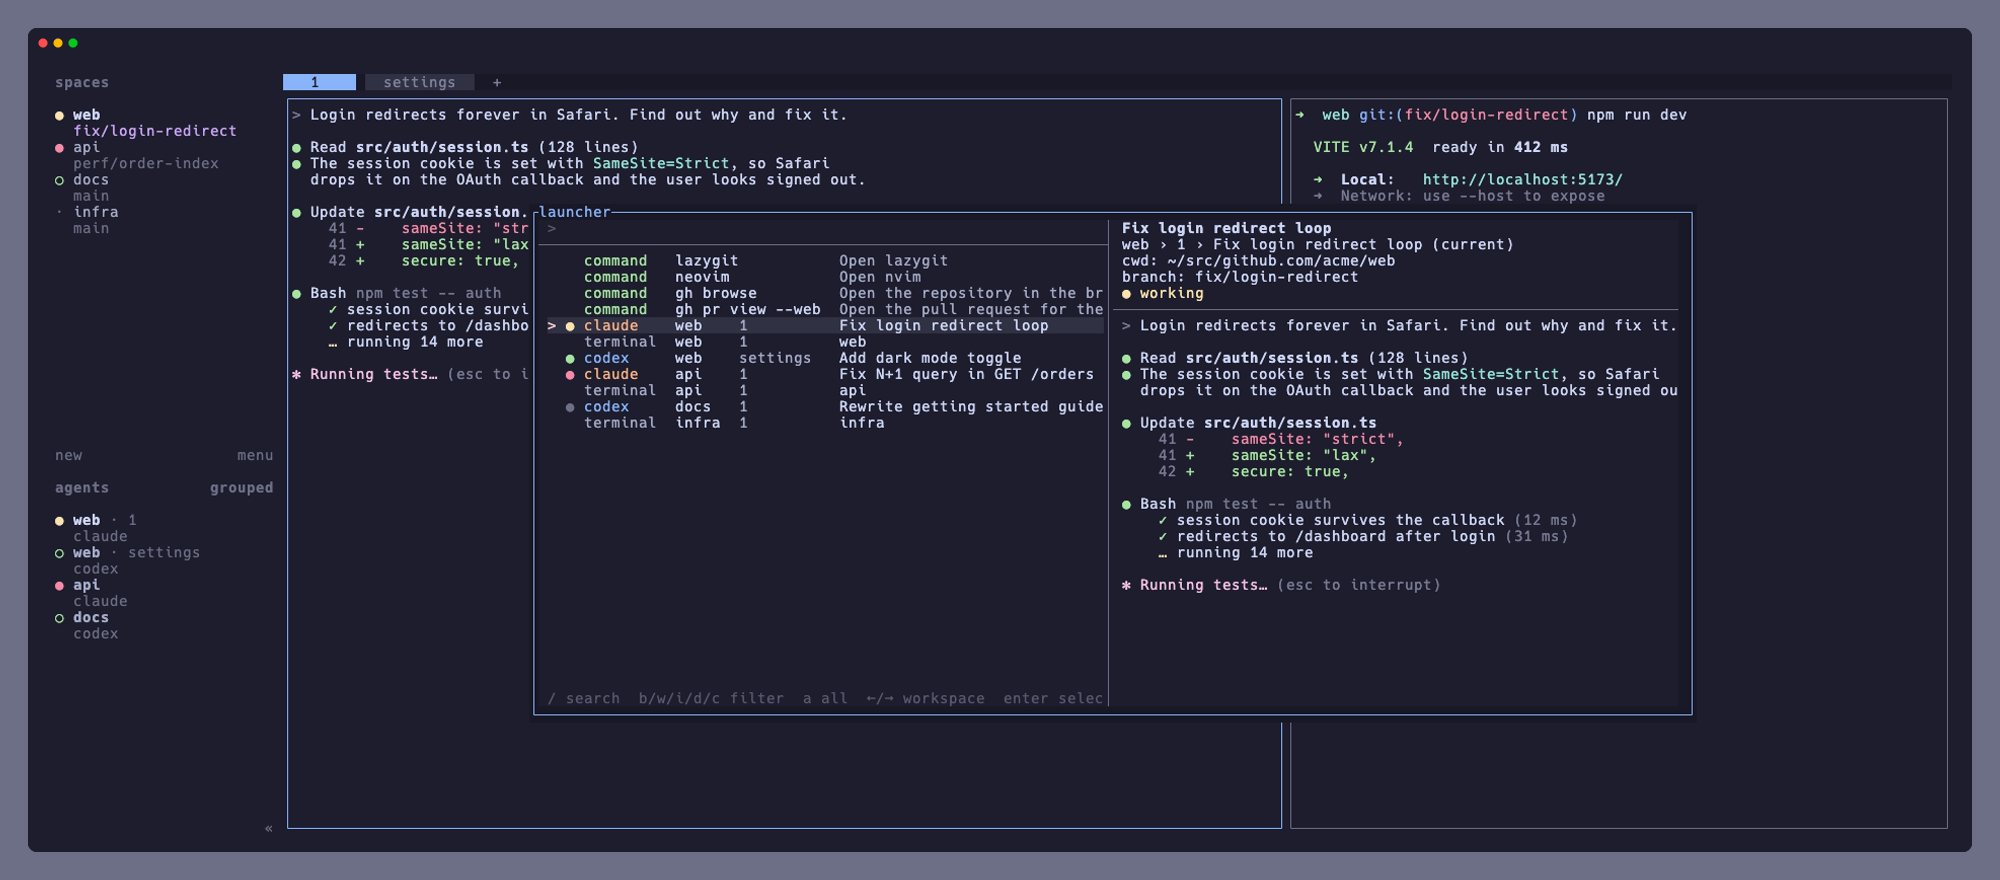
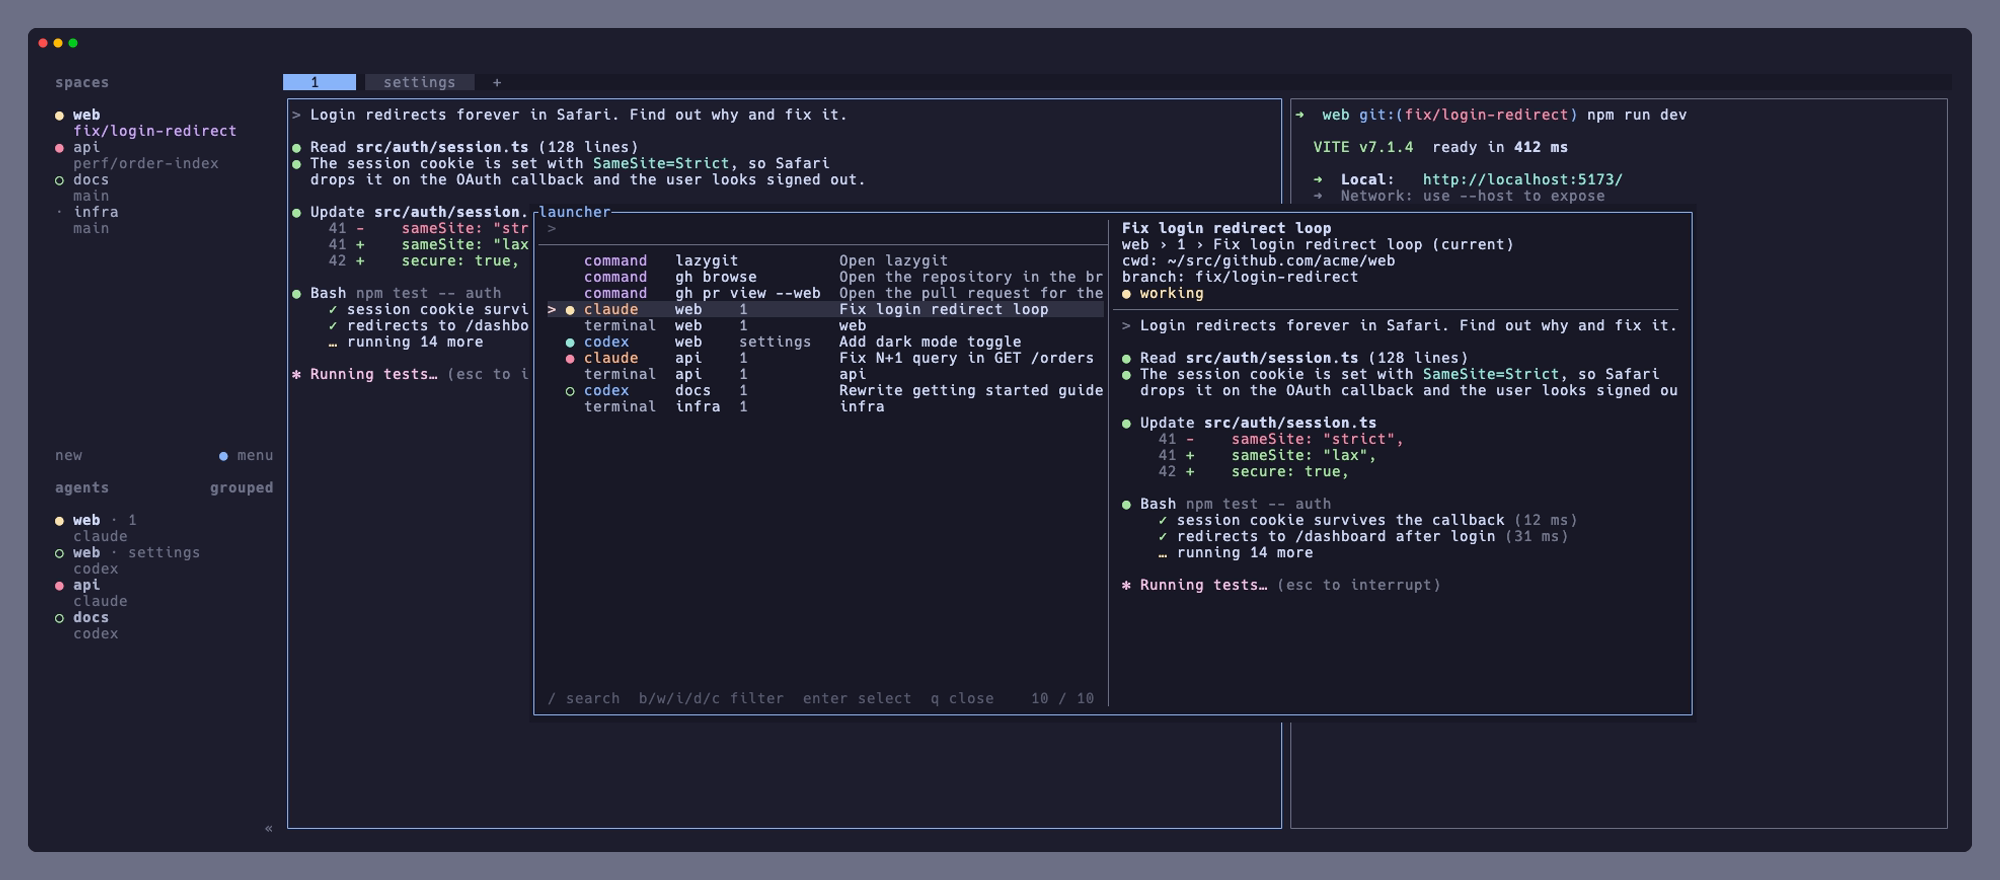
feat(theme): paint the launcher's background so the popup stands out
- Add a bg color, a step darker than herdr's background in catppuccin and
  left to the terminal in ansi; bg = "none" leaves the terminal's
- Paint it at the start of every line and again after each SGR sequence
  that resets the background, telling resets apart from color values
- Retake the README screenshots with the new background over a busy
  workspace

Bump the version to 0.6.0.

Changed region(s): [[0.279, 0.2761, 0.558, 0.4909], [0.434, 0.767, 0.527, 0.7977]]

diff --git a/theme.go b/theme.go
@@ -7,14 +7,18 @@ import (
 	"image/color"
 	"maps"
 	"reflect"
+	"regexp"
 	"slices"
+	"strconv"
 	"strings"
 
 	"charm.land/lipgloss/v2"
+	"github.com/charmbracelet/x/ansi"
 )
 
 // Colors are #rrggbb or a terminal 16/256 color number such as "4". Empty means the terminal default.
 type palette struct {
+	Bg          string `toml:"bg"`           // background of the whole picker; "none" leaves the terminal's
 	Fg          string `toml:"fg"`           // regular text
 	Subtle      string `toml:"subtle"`       // secondary text such as tab names and command descriptions
 	Dim         string `toml:"dim"`          // dividers and supplementary text
@@ -35,6 +39,7 @@ type palette struct {
 var themes = map[string]palette{
 	// Matches herdr's default theme.
 	"catppuccin": {
+		Bg: "#181825", // mantle, a step darker than herdr's background so the popup stands out
 		Fg: "#cdd6f4", Subtle: "#a6adc8", Dim: "#6c7086", Faint: "#585b70",
 		SelectionBg: "#313244", CursorFg: "#1e1e2e", Accent: "#89b4fa", Caret: "#f2cdcd",
 		Green: "#a6e3a1", Mauve: "#cba6f7", Teal: "#94e2d5", Yellow: "#f9e2af", Red: "#f38ba8", Orange: "#fab387", Blue: "#89b4fa",
@@ -52,6 +57,7 @@ var (
 	green, mauve, teal, yellow, red, orange, blue                     color.Color
 
 	titleStyle, dimStyle lipgloss.Style
+	bgSeq                string // sets the picker's background; empty when it is not painted
 )
 
 func init() { usePalette(themes["catppuccin"]) }
@@ -83,4 +89,58 @@ func usePalette(p palette) {
 	green, mauve, teal, yellow, red, orange, blue = lipgloss.Color(p.Green), lipgloss.Color(p.Mauve), lipgloss.Color(p.Teal), lipgloss.Color(p.Yellow), lipgloss.Color(p.Red), lipgloss.Color(p.Orange), lipgloss.Color(p.Blue)
 	titleStyle = lipgloss.NewStyle().Foreground(fg)
 	dimStyle = lipgloss.NewStyle().Foreground(dim)
+	bgSeq = ""
+	if p.Bg != "" && p.Bg != "none" {
+		bgSeq = ansi.Style{}.BackgroundColor(lipgloss.Color(p.Bg)).String()
+	}
+}
+
+var sgrPattern = regexp.MustCompile(`\x1b\[([0-9;:]*)m`)
+
+// Paints the picker's background behind every cell of line: at the start, and again after each SGR
+// sequence that resets the background, such as the resets that styled text and pane screens contain.
+func withBackground(line string) string {
+	if bgSeq == "" {
+		return line
+	}
+	return bgSeq + sgrPattern.ReplaceAllStringFunc(line, func(seq string) string {
+		if resetsBackground(seq[2 : len(seq)-1]) {
+			return seq + bgSeq
+		}
+		return seq
+	})
+}
+
+// Whether SGR parameters leave the background at the terminal default: a reset (empty or 0) or 49,
+// not followed by a background of their own. The numbers inside 38/48/58 color values are skipped,
+// so a color component such as 49 is not mistaken for one.
+func resetsBackground(params string) bool {
+	reset := false
+	ps := strings.Split(params, ";")
+	for i := 0; i < len(ps); i++ {
+		switch p := ps[i]; {
+		case p == "" || p == "0" || p == "49":
+			reset = true
+		case p == "38" || p == "48" || p == "58":
+			if p == "48" {
+				reset = false
+			}
+			// Skip the color value: 5;n or 2;r;g;b.
+			if i+1 < len(ps) {
+				switch ps[i+1] {
+				case "5":
+					i += 2
+				case "2":
+					i += 4
+				}
+			}
+		case strings.HasPrefix(p, "48:"):
+			reset = false
+		default:
+			if n, err := strconv.Atoi(p); err == nil && (n >= 40 && n <= 47 || n >= 100 && n <= 107) {
+				reset = false
+			}
+		}
+	}
+	return reset
 }

diff --git a/ui_test.go b/ui_test.go
@@ -776,3 +776,48 @@ func TestNoCommandsHint(t *testing.T) {
 		t.Errorf("with commands: %q should offer c", got)
 	}
 }
+
+func TestResetsBackground(t *testing.T) {
+	for params, want := range map[string]bool{
+		"":                true,  // \x1b[m
+		"0":               true,  // reset
+		"0;32":            true,  // reset, then a foreground
+		"49":              true,  // default background
+		"32":              false, // foreground only
+		"38;2;49;50;68":   false, // 49 is a color component, not the default background
+		"48;2;49;50;68":   false, // a background of its own
+		"0;48;5;236":      false, // reset, then a background of its own
+		"44":              false,
+		"104":             false,
+		"38;5;0":          false, // 0 is a color number
+		"1;38:2::255:0:0": false,
+	} {
+		if got := resetsBackground(params); got != want {
+			t.Errorf("%q: got %v, want %v", params, got, want)
+		}
+	}
+}
+
+// The picker's background is painted behind every cell, including after the resets in pane screens,
+// and leaves the selected row's own background alone.
+func TestBackground(t *testing.T) {
+	defer applyTheme("catppuccin", palette{})
+	applyTheme("catppuccin", palette{Bg: "#010203"})
+	bg := "\x1b[48;2;1;2;3m"
+	if got := withBackground("a\x1b[0mb\x1b[48;2;49;50;68mc\x1b[mx"); got != bg+"a\x1b[0m"+bg+"b\x1b[48;2;49;50;68mc\x1b[m"+bg+"x" {
+		t.Errorf("got %q", got)
+	}
+	m := model{items: gotoItems(), previews: map[string]string{"a1": "\x1b[31mred\x1b[0m line"}, hasPanes: true}
+	m.width, m.height = 100, 10
+	m.filter()
+	for i, l := range strings.Split(m.render(), "\n") {
+		if !strings.HasPrefix(l, bg) || ansi.StringWidth(l) != m.width {
+			t.Errorf("line %d does not start with the background or is not %d wide: %q", i, m.width, l)
+		}
+	}
+	// "none" leaves the terminal's background.
+	applyTheme("catppuccin", palette{Bg: "none"})
+	if got := withBackground("a\x1b[0mb"); got != "a\x1b[0mb" {
+		t.Errorf("none: got %q", got)
+	}
+}

diff --git a/ui.go b/ui.go
@@ -514,7 +514,11 @@ func (m model) render() string {
 	}
 	left = append(left, " "+m.footerLine(leftWidth-2))
 	if leftWidth == m.width {
-		return strings.Join(fitLines(left, leftWidth, m.height), "\n")
+		lines := fitLines(left, leftWidth, m.height)
+		for i, l := range lines {
+			lines[i] = withBackground(l)
+		}
+		return strings.Join(lines, "\n")
 	}
 
 	rightWidth := m.width - leftWidth - 1
@@ -540,7 +544,7 @@ func (m model) render() string {
 		if rules[i] {
 			divider = "┤"
 		}
-		lines[i] = left[i] + dimStyle.Render(divider) + right[i]
+		lines[i] = withBackground(left[i] + dimStyle.Render(divider) + right[i])
 	}
 	return strings.Join(lines, "\n")
 }

diff --git a/README.md b/README.md
@@ -41,7 +41,7 @@ To update, run the install again. It replaces the installed version and keeps yo
 # The latest version
 herdr plugin install EkeMinusYou/herdr-launcher
 # A specific version
-herdr plugin install EkeMinusYou/herdr-launcher --ref v0.5.0
+herdr plugin install EkeMinusYou/herdr-launcher --ref v0.6.0
 ```
 
 To work on the plugin from a local checkout instead, build it once and link it. `plugin link` does not build, but after the first build the launcher rebuilds itself whenever a source file is newer than the binary (except on Windows, where you rebuild it by hand).
@@ -122,7 +122,8 @@ cp default_config.toml "$(herdr plugin config-dir ekeminusyou.launcher)/config.t
 # "catppuccin" (herdr's default theme) or "ansi" (your terminal's 16 colors)
 theme = "catppuccin"
 
-# Optional per-color overrides: #rrggbb or a terminal color number
+# Optional per-color overrides: #rrggbb or a terminal color number.
+# bg is the launcher's background; "none" leaves the terminal's.
 [colors]
 accent = "#89b4fa"
 
